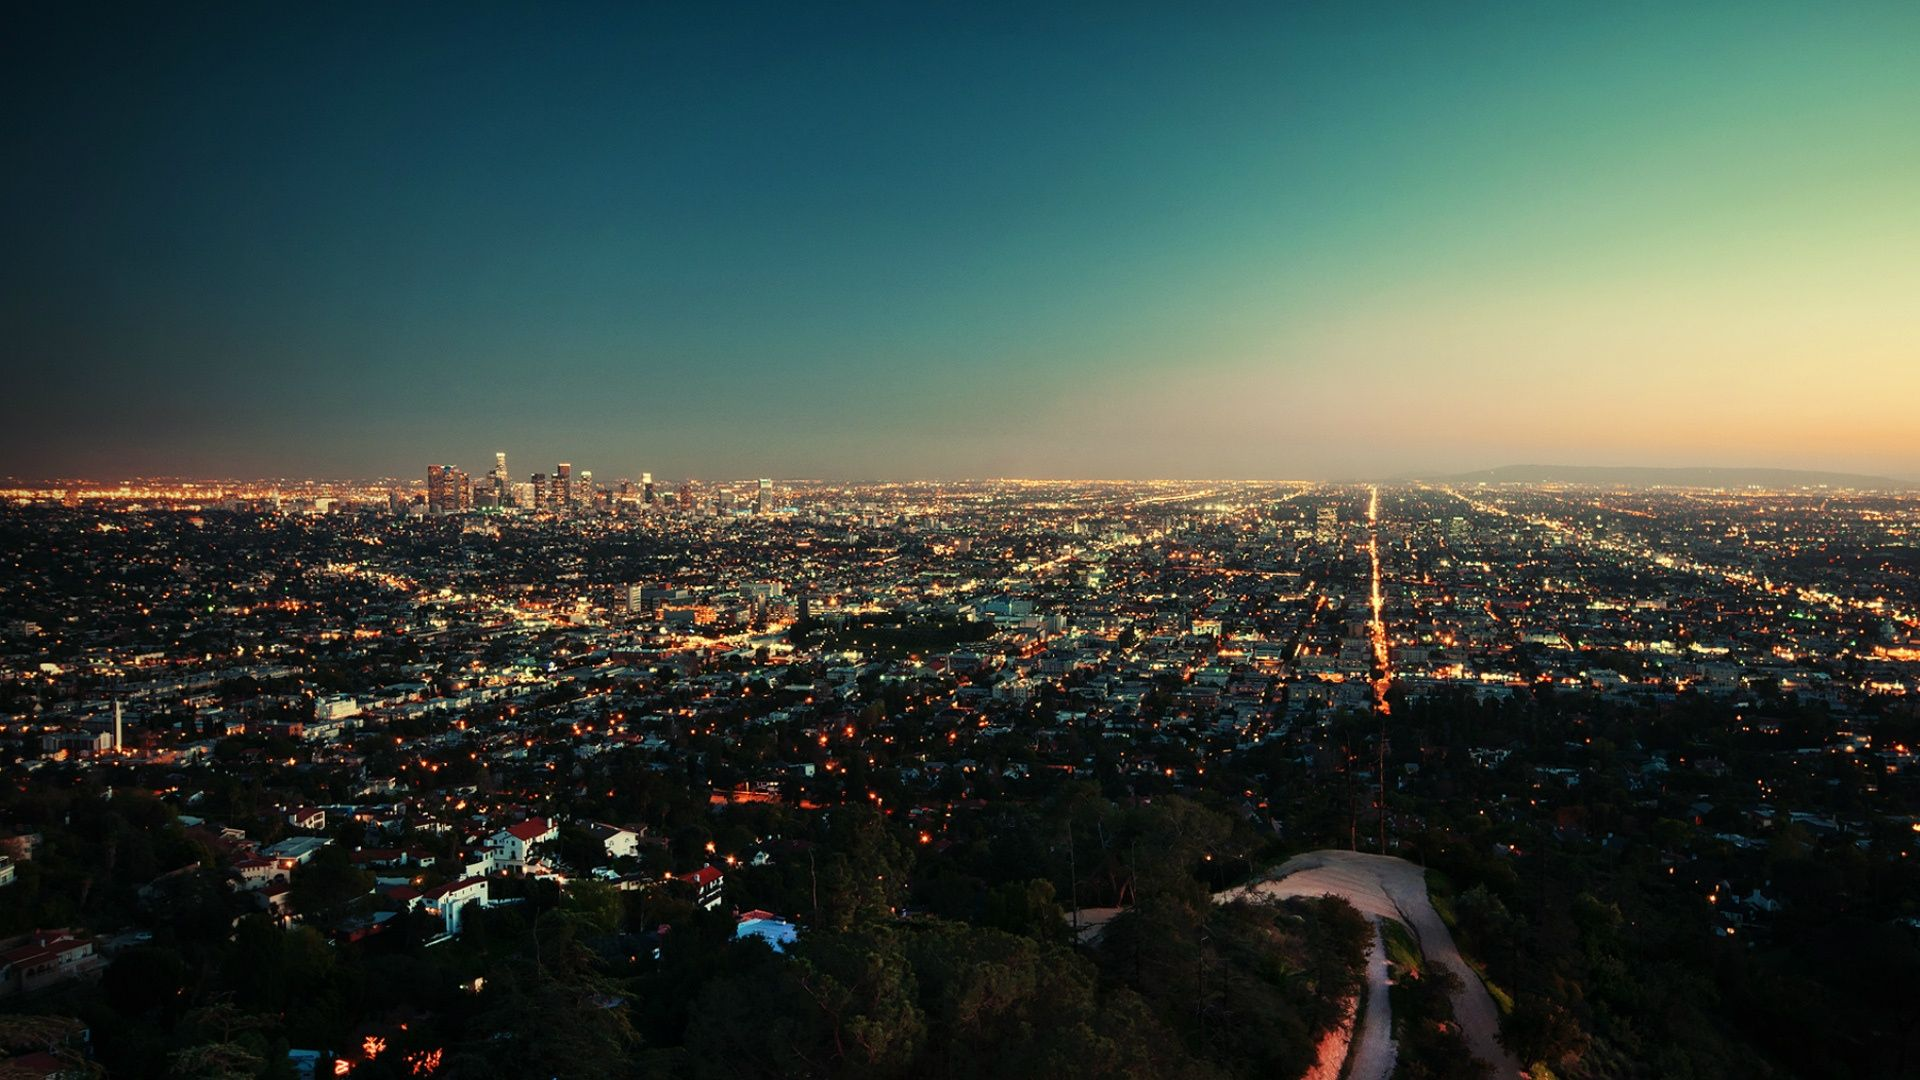
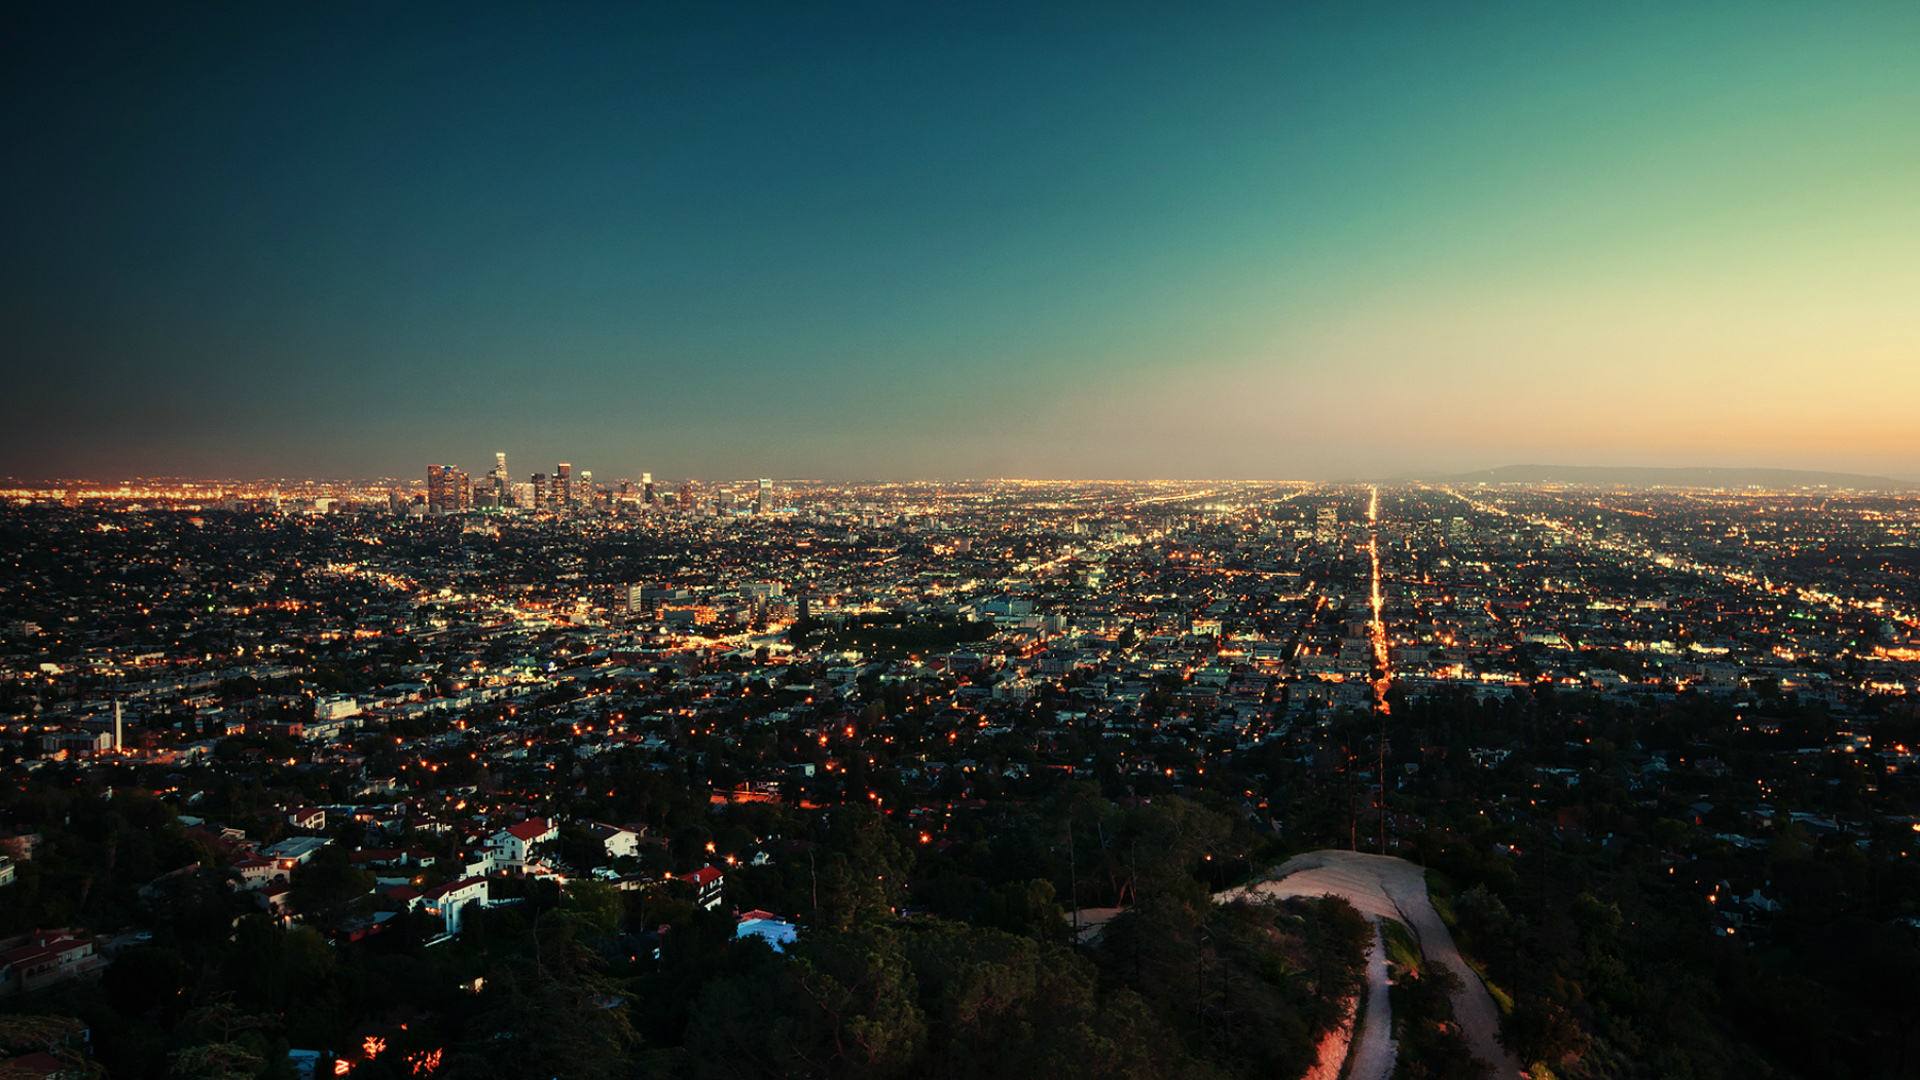
Added new images

diff --git a/portfolio/src/assets/css/stylesheet.css b/portfolio/src/assets/css/stylesheet.css
@@ -94,13 +94,11 @@ body {
 
 
 
-
-.background-city {
+.bg-city {
     background-image: url("/assets/images/background-la.jpg");
-    height: 100%;
-    width: 100%;
-    background-size: cover; 
-    background-attachment: fixed;
+    height: 300px;
+    width: 300px;
+    background-size: cover;
 
 }
 

diff --git a/portfolio/src/public/home.js b/portfolio/src/public/home.js
@@ -1,10 +1,8 @@
 import React, {Component} from 'react';
-import "animate.css/animate.min.css";
-import "../assets/css/stylesheet.css";
 
 export const HomePage = () => (
-    <div>
-        hello
+    <div class = "bg-city">
+        
     </div>
 )
 

diff --git a/portfolio/src/index.js b/portfolio/src/index.js
@@ -3,7 +3,7 @@ import ReactDOM from 'react-dom';
 import './index.css';
 import App from './App';
 import * as serviceWorker from './serviceWorker';
-
+import './assets/css/stylesheet.css';
 ReactDOM.render(
   <React.StrictMode>
     <App />
